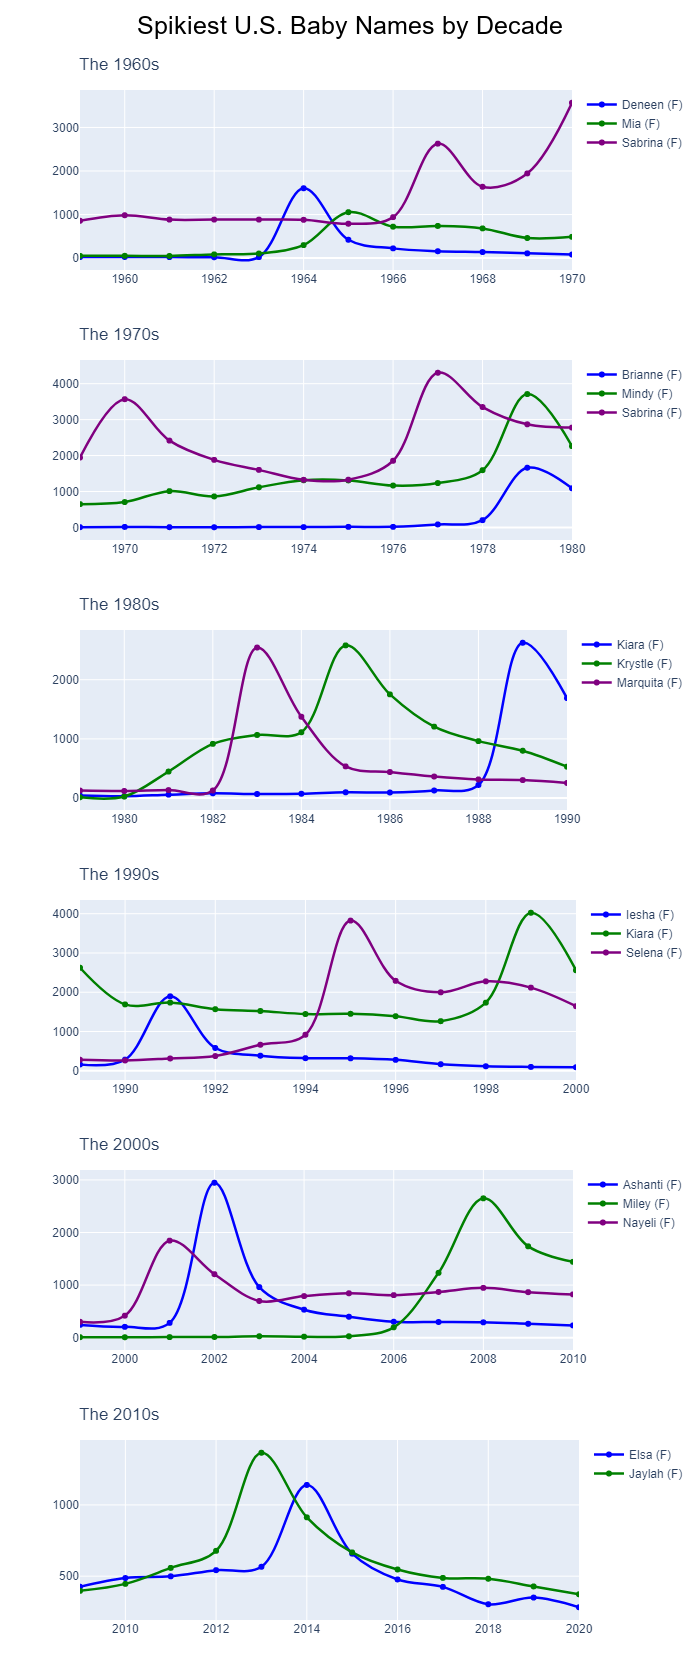
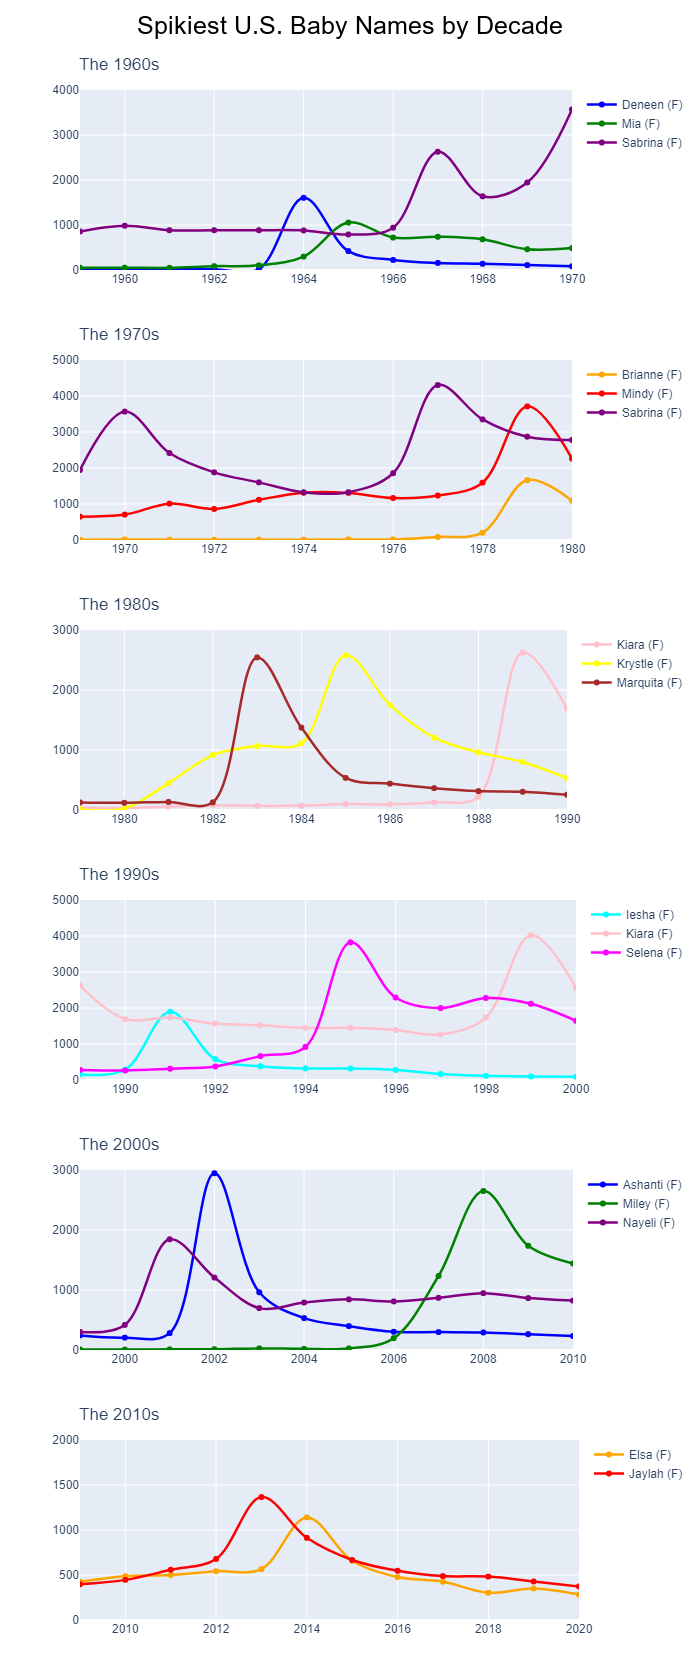
-same color for same name across subplots

diff --git a/main.py b/main.py
@@ -12,6 +12,7 @@ import os
 import time
 import requests
 import zipfile
+import math
 
 
 def download_and_extract_data(url, folder_path):
@@ -60,18 +61,56 @@ def get_full_for_spikes(spike_df, df):
     return pivot_df
 
 
-def plotly_line(pivot_df):
-    colors = ['blue', 'green', 'purple', 'orange', 'red', 'pink', 'yellow', 'brown', 'cyan', 'magenta']
-    traces = []
-    for i in range(len(pivot_df)):
-        traces.append(go.Scatter(
-            x=pivot_df.columns[2:],  # years
-            y=pivot_df.iloc[i, 2:],  # counts
-            mode='lines+markers',  # add markers
-            name=f"{pivot_df.iloc[i, 0]} ({pivot_df.iloc[i, 1]})",  # name (sex)
-            line=dict(color=colors[i%len(colors)], shape='spline', width=2.5),  # smooth lines, and thicker width
-        ))
-    return traces
+
+def plot_decade(start_decade_year, end_decade_year, df, color_map):
+    
+    start_plot_year = start_decade_year - 1
+    end_plot_year = min(start_decade_year + 10, df['Year'].max())  # adjust end year to account for missing data
+    df_decade = df[(df['Year'] >= start_plot_year) & (df['Year'] <= end_plot_year)]
+    spike_df = find_spike(df_decade)
+    pivot_df = get_full_for_spikes(spike_df, df)
+
+    # Filter pivot_df for only the years within the current decade
+    year_cols = [col for col in pivot_df.columns if isinstance(col, int) and start_plot_year <= col <= end_plot_year]
+
+    pivot_df = pivot_df.loc[:, ['Name', 'Sex'] + year_cols]
+
+    traces = plotly_line(pivot_df, color_map)
+
+    fig = go.Figure()
+    max_y_value = 0
+    for trace in traces:
+        fig.add_trace(trace)
+        max_y_value = max(max_y_value, max(trace.y))  # update max y-value
+
+    y_axis_upper_limit = math.ceil(max_y_value / 1000) * 1000  # round up to the nearest thousand
+
+    fig.update_layout(title=f"The {start_decade_year}s", xaxis_range=[start_plot_year, end_plot_year])
+    fig.update_yaxes(range=[0, y_axis_upper_limit])  # update y-axis range
+
+    fig.update_layout(
+        font=dict(family="Arial"),
+        margin=dict(t=40),
+        height=300,
+        yaxis=dict(tickprefix="\xa0\xa0\xa0\xa0\xa0"),  # Add space before y-axis labels
+        title_x=.113,  # Align the title with the beginning of the y-axis
+    )
+
+    fig_name = f"fig_{start_decade_year}.png"
+    fig.write_image(fig_name)
+
+    time.sleep(1)  # wait for the file to be written
+
+    # Trim the image
+    img = Image.open(fig_name)
+    trimmed_img = trim_top_bottom(img, 0.00, 0.1)  # Adjust the percentages as desired
+    trimmed_fig_name = f"trimmed_{fig_name}"
+    trimmed_img.save(trimmed_fig_name)
+    # Remove the original image
+    os.remove(fig_name)
+    return trimmed_fig_name
+
+
 
 
 def find_spike(df):
@@ -90,43 +129,6 @@ def find_spike(df):
                   & (df['Abs_Increase'] > abs_increase_threshold)]
     spike_df = spike_df.sort_values(by='Abs_Increase', ascending=False).head(3)
     return spike_df
-
-
-def plot_decade(start_decade_year, end_decade_year, df):
-    start_plot_year = start_decade_year - 1
-    end_plot_year = min(start_decade_year + 10, df['Year'].max())  # adjust end year to account for missing data
-    df_decade = df[(df['Year'] >= start_plot_year) & (df['Year'] <= end_plot_year)]
-    spike_df = find_spike(df_decade)
-    pivot_df = get_full_for_spikes(spike_df, df)
-    year_cols = [col for col in pivot_df.columns[2:] if str(col).isdigit()]
-    pivot_df = pivot_df.loc[:, ['Name', 'Sex'] + [col for col in year_cols if start_plot_year <= int(col) <= end_plot_year]]
-    traces = plotly_line(pivot_df)
-    fig = go.Figure()
-    for trace in traces:
-        fig.add_trace(trace)
-    fig.update_layout(title=f"The {start_decade_year}s", xaxis_range=[start_plot_year, end_plot_year])
-    fig_name = f"fig_{start_decade_year}.png"
-    fig.update_layout(
-        title=f"The {start_decade_year}s",
-        xaxis_range=[start_plot_year, end_plot_year],
-        font=dict(family="Arial"),
-        margin=dict(t=40),
-        height=300,
-        yaxis=dict(tickprefix="\xa0\xa0\xa0\xa0\xa0"),  # Add space before y-axis labels
-        title_x=.113,  # Align the title with the beginning of the y-axis
-    )
-    time.sleep(1)  # wait for the file to be written
-    fig.write_image(fig_name)
-
-    # Trim the image
-    # Trim the image
-    img = Image.open(fig_name)
-    trimmed_img = trim_top_bottom(img, 0.00, 0.1)  # Adjust the percentages as desired
-    trimmed_fig_name = f"trimmed_{fig_name}"
-    trimmed_img.save(trimmed_fig_name)
-    # Remove the original image
-    os.remove(fig_name)
-    return trimmed_fig_name
 
 def trim_top_bottom(image, top_percentage, bottom_percentage):
     width, height = image.size
@@ -161,13 +163,45 @@ def combine_images(img_names):
 def main(start_year, end_year):
     df = read_and_combine_files(start_year - 1, end_year + 1)  # Adjusted to include the year before and after the decades
     img_names = []
+    spike_df_list = []
+
+    img_names = []
+    color_map = {}
     for start_decade_year in range(start_year, end_year + 1, 10):
         if start_decade_year + 10 <= end_year:
-            img_names.append(plot_decade(start_decade_year, start_decade_year + 10, df))
+            img_names.append(plot_decade(start_decade_year, start_decade_year + 10, df, color_map))  # Pass the color map to this function
+            df_decade = df[(df['Year'] >= start_decade_year) & (df['Year'] <= start_decade_year + 10)]
+            spike_df = find_spike(df_decade)
+            spike_df_list.append(spike_df)
     combine_images(img_names)
+    spike_info_df = pd.concat(spike_df_list, ignore_index=True)
+    return spike_info_df
+
+
+def plotly_line(pivot_df, color_map):
+    colors = ['blue', 'green', 'purple', 'orange', 'red', 'pink', 'yellow', 'brown', 'cyan', 'magenta']
+    traces = []
+    for i in range(len(pivot_df)):
+        # Get the name of the current series
+        name = pivot_df.iloc[i, 0]
+        # If this name hasn't been assigned a color yet, assign it the next available color
+        if name not in color_map:
+            color_map[name] = colors[len(color_map) % len(colors)]
+        # Use the color assigned to this name
+        color = color_map[name]
+        
+        traces.append(go.Scatter(
+            x=pivot_df.columns[2:],  # years
+            y=pivot_df.iloc[i, 2:],  # counts
+            mode='lines+markers',  # add markers
+            name=f"{name} ({pivot_df.iloc[i, 1]})",  # name (sex)
+            line=dict(color=color, shape='spline', width=2.5),  # smooth lines, and thicker width
+        ))
+    return traces
+
 
 if __name__ == '__main__':
     download_and_extract_data('https://www.ssa.gov/oact/babynames/names.zip', '..')
-    main(1960, 2020)  # Change the years here
+    spike_info_df=main(1960, 2020)  # Change the years here
 
 
